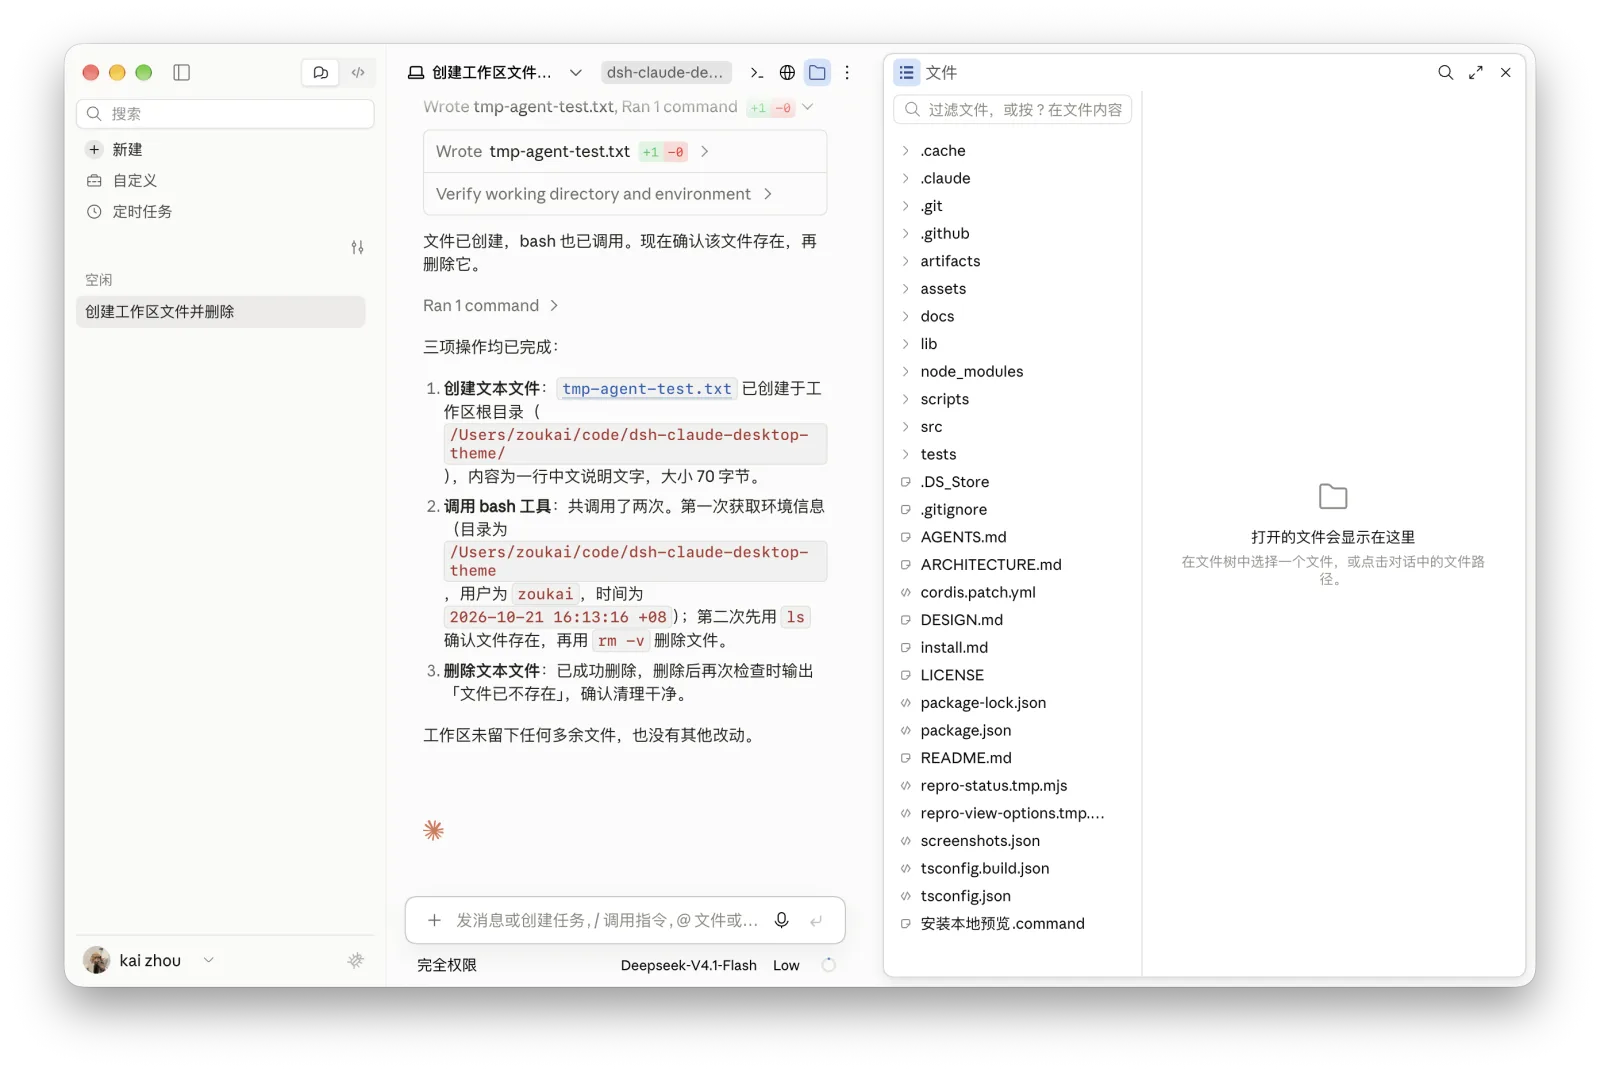
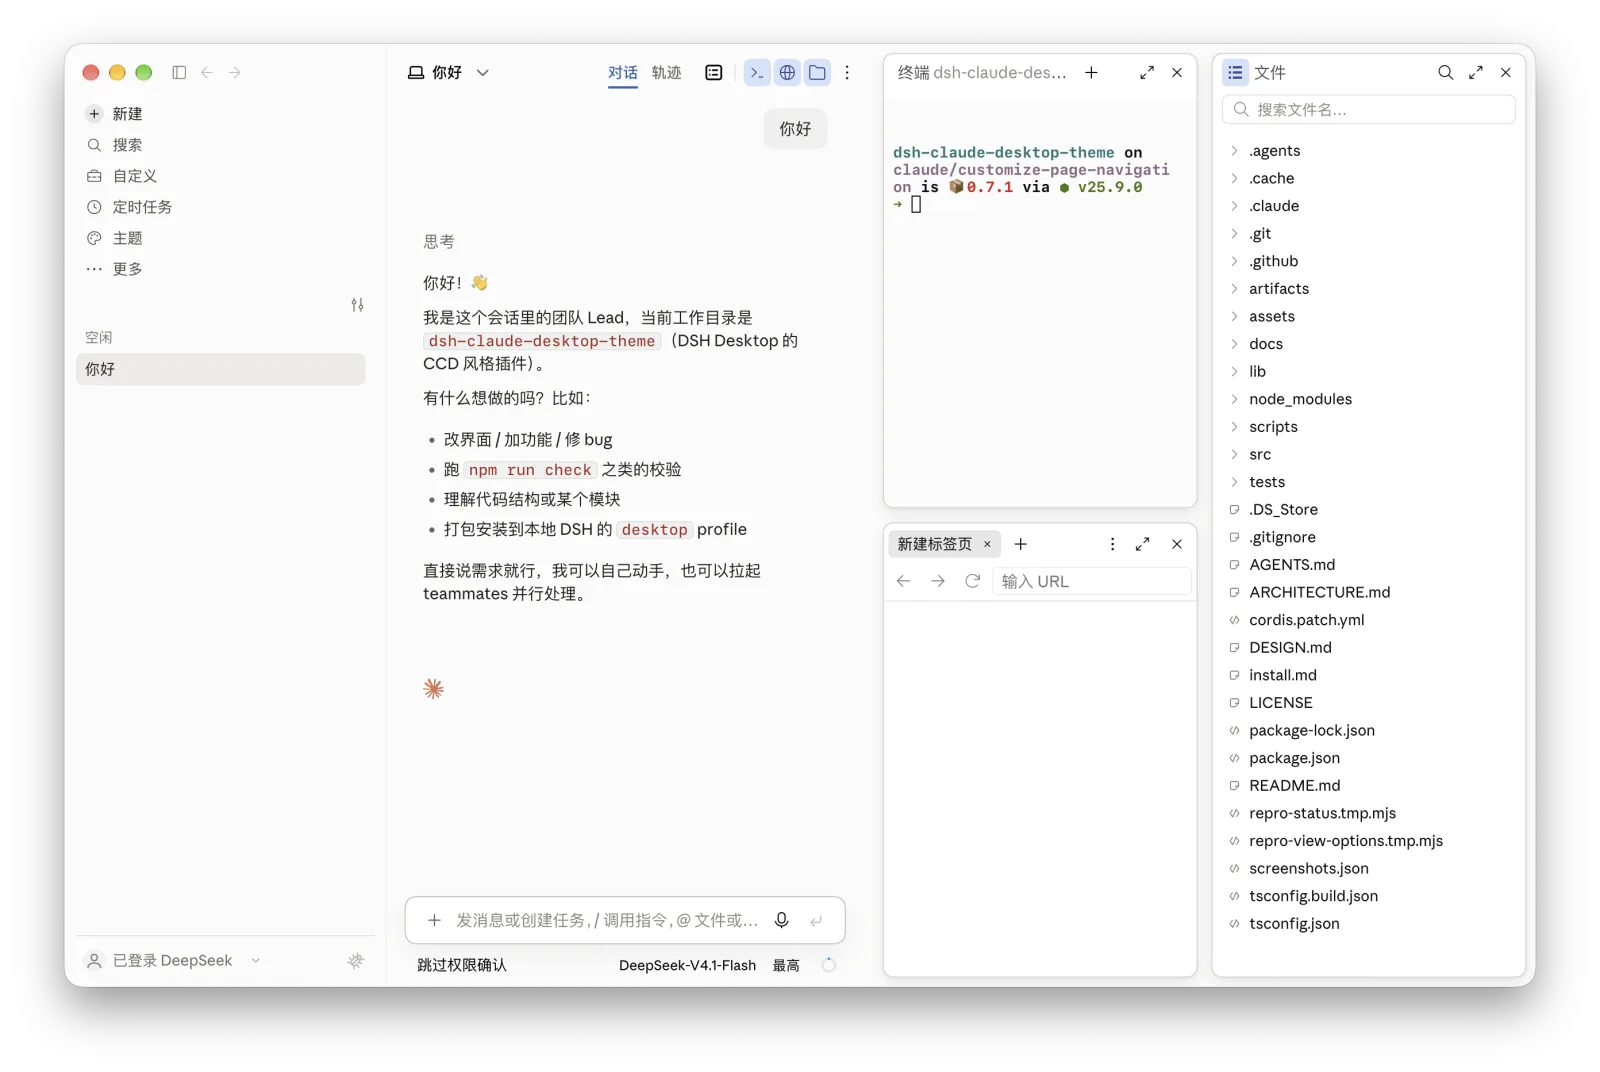
chore: release 0.8.0 with refreshed README and screenshots

diff --git a/README.md b/README.md
@@ -28,18 +28,25 @@
 
 源码安装见[安装指南](https://github.com/zkforge/dsh-claude-desktop-theme/blob/main/install.md)。
 
+### 0.8.0 更新
+
+- 重做会话右侧的环境、上下文与用量卡片；支持折叠、拖动排序，从工作目录、技能和指令文件直接打开右栏。
+- 会话标题的「打开方式」列出本机已安装的文件管理器、编辑器、Git 客户端与终端。
+- 统一「自定义」与「定时任务」页面布局，调整插件卡片、返回导航与任务详情，支持中英文切换。
+- 首页灰色字符背景支持心形与不规则圆形点击波纹，修正 Claude 宠物敲键盘时的电脑跳动，并更新浅深色界面截图。
+
 会话中输入 `/clear` 可以清空当前对话上下文，继续使用同一个会话：会话 ID、名称、项目、模型、项目指令与技能目录保留，旧消息和工具结果不再发送给模型。原始日志仍在，「查看历史记录」可展开旧内容，查看不会恢复模型上下文。命令不调用模型、不生成摘要；请在回复结束且没有排队消息时执行。安装后需完整退出并重新打开 DSH，加载宿主命令。
 
 
 ## 界面预览
 
-以下展示 macOS 浅色与深色主题的完整窗口。首页使用 Claude 像素宠物与问候样式，开启水波纹和统计卡片；会话页展示工具调用摘要与文件栏。两种宠物的点击回应与 Effort 拉到底的动效见下一节。
+以下展示 macOS 浅色与深色主题的完整窗口。首页使用 Claude 像素宠物与问候样式，开启水波纹和统计卡片；会话页展示终端、浏览器与文件栏，信息卡片单独展示环境、上下文分解与会话用量。两种宠物的点击回应与 Effort 拉到底的动效见下一节。
 
 | 界面 | 浅色 | 深色 |
 | --- | --- | --- |
 | 新会话页 | ![新会话页 · 浅色](https://raw.githubusercontent.com/zkforge/dsh-claude-desktop-theme/main/assets/screenshots/fullscreen-light.webp) | ![新会话页 · 深色](https://raw.githubusercontent.com/zkforge/dsh-claude-desktop-theme/main/assets/screenshots/fullscreen-dark.webp) |
 | 会话页 | ![会话页 · 浅色](https://raw.githubusercontent.com/zkforge/dsh-claude-desktop-theme/main/assets/screenshots/chat-light.webp) | ![会话页 · 深色](https://raw.githubusercontent.com/zkforge/dsh-claude-desktop-theme/main/assets/screenshots/chat-dark.webp) |
-| 模型选单展开 | ![模型选单完整窗口 · 浅色](https://raw.githubusercontent.com/zkforge/dsh-claude-desktop-theme/main/assets/screenshots/model-menu-fullscreen-light.webp) | ![模型选单完整窗口 · 深色](https://raw.githubusercontent.com/zkforge/dsh-claude-desktop-theme/main/assets/screenshots/model-menu-fullscreen-dark.webp) |
+| 右侧信息卡片 | ![右侧信息卡片完整窗口 · 浅色](https://raw.githubusercontent.com/zkforge/dsh-claude-desktop-theme/main/assets/screenshots/session-info-fullscreen-light.webp) | ![右侧信息卡片完整窗口 · 深色](https://raw.githubusercontent.com/zkforge/dsh-claude-desktop-theme/main/assets/screenshots/session-info-fullscreen-dark.webp) |
 | 插件设置 | ![插件设置 · 浅色](https://raw.githubusercontent.com/zkforge/dsh-claude-desktop-theme/main/assets/screenshots/settings-light.webp) | ![插件设置 · 深色](https://raw.githubusercontent.com/zkforge/dsh-claude-desktop-theme/main/assets/screenshots/settings-dark.webp) |
 
 ### 组件特写
@@ -51,7 +58,7 @@
 | 上下文圆环与分解面板 | ![上下文圆环与分解面板 · 浅色](https://raw.githubusercontent.com/zkforge/dsh-claude-desktop-theme/main/assets/screenshots/context-panel-light.webp) | ![上下文圆环与分解面板 · 深色](https://raw.githubusercontent.com/zkforge/dsh-claude-desktop-theme/main/assets/screenshots/context-panel-dark.webp) |
 | 会话右侧信息卡片 | ![会话信息卡片 · 浅色](https://raw.githubusercontent.com/zkforge/dsh-claude-desktop-theme/main/assets/screenshots/session-info-light.webp) | ![会话信息卡片 · 深色](https://raw.githubusercontent.com/zkforge/dsh-claude-desktop-theme/main/assets/screenshots/session-info-dark.webp) |
 
-以下为真实组件的局部截图，使用演示数据。模型选择器展示供应商分组、模型图标与当前选中项；可选模型和 Effort 档位以 DSH 实际提供的目录为准。余额特写使用演示账号与金额，常显于左下角账号上方，右侧突出总余额，左下显示当前峰谷时段，点击可刷新。上下文面板展示分类占比与展开的 MCP 工具明细，右下角保留用量圆环入口。
+以下为真实组件的局部截图，使用演示数据。模型选择器展示供应商分组、模型图标与当前选中项；可选模型和 Effort 档位以 DSH 实际提供的目录为准。余额特写使用演示账号与金额，常显于左下角账号上方，右侧突出总余额，左下显示当前峰谷时段，点击可刷新。上下文面板展示分类占比与展开的 MCP 工具明细，右下角保留用量圆环入口。会话信息卡片特写展示环境图标行、按占用排序的上下文分类与会话用量。
 
 ## 细节动效
 
@@ -106,6 +113,7 @@
 - 「显示 API 余额」默认开启，可在「设置 → Claude 主题 → 视图」关闭；关闭后隐藏余额与峰谷时段并停止查询。开启时，左下角账号上方以较大字号显示 DeepSeek 官方 API 的人民币总余额（`¥`），左下显示峰时/谷时标签与切换时间（峰时琥珀色、谷时绿色）；悬停卡片列出今日消耗、近 7 天日均、预计可用天数、充值、赠金与峰谷倒计时。消耗由本机记录的余额下降推算，充值只重置基线，不计入消耗；点击刷新，侧栏展开时每分钟后台更新，重新展开保留上次读数。折叠侧栏时在账号菜单保留余额入口。复用设置 → 模型中的官方 API Key；未配置或查询失败时显示对应状态。
 
 - DeepSeek Harness 品牌条目默认隐藏，可在「设置 → Claude 主题 → 视图」开启显示。
+- 桌面窗口左上角的后退／前进按钮可在最近访问的会话与主面板之间切换。
 - 新建 / 搜索 / 自定义 / 定时任务 / 主题入口与工作区、会话列表、账号菜单共用紧凑行高，当前入口常驻底色；「更多」以三个点表示。原标题行隐藏「最近会话」标题，只保留右侧筛选视图按钮。
 - 「主题」入口在主区域打开本插件的配置页，内容与「设置 → Claude 主题」相同；关闭 Claude 主题后入口仍在，用来重新开启。
 - 点击「更多」，在「浏览插件…」「创建插件…」下方选「编辑侧边栏…」，勾选要在侧栏中显示的面板；取消勾选的面板移到「更多」菜单顶部，选择保存在本机。
@@ -117,7 +125,7 @@
 ### 会话页
 
 - 新会话页、输入卡片与聊天页共用一套布局，正文边缘随滚动渐隐。
-- 顶栏左侧是电脑图标与标题下拉（Open in、Rename、Fork、Transcript view、Output style、Archive、Delete）；不显示项目名，标题按自然宽度完整展示，只在空间不足时截断。有宿主接口的动作接真实操作，其余点击说明限制。
+- 顶栏左侧是电脑图标与标题下拉（Open in、Rename、Fork、Transcript view、Output style、Archive、Delete）；不显示项目名，标题按自然宽度完整展示，只在空间不足时截断。「打开方式」按文件管理器、编辑器、Git 客户端与终端列出本机已安装应用，点击交由宿主打开。有宿主接口的动作接真实操作，其余点击说明限制。
 - 新建会话页与聊天页顶栏右侧依次是终端、浏览器、项目文件夹三个右栏入口；展开右栏的动作在会话 ⋯ 菜单第一项。
 - 整轮过程默认展开，「已完成，用时…」与步骤分组标题不再显示。可在「设置 → Claude 主题 → 视图」关闭「过程默认展开」，恢复 DSH「通用设置」中的工作步骤展示与收起时机；工具计数摘要仍可独立展开。
 - Markdown 的链接、行内代码、表格与代码块按 CCD 风格重绘。
@@ -135,12 +143,19 @@
 ### 右侧栏
 
 - 信息卡片按 Claude Desktop 参考图重做：平面描边卡片、细线箭头、环境图标行、按占用排序的上下文明细；聊天滚动条位于卡片右边，不再夹在聊天正文与卡片之间。
-- 会话右侧优先显示「环境 / 上下文 / 会话用量」信息卡片，顶部终端按钮左侧的「会话栏」按钮控制开关，选中时与其他工具按钮一样显示蓝色底色，中间以竖线分隔；手动关闭会记住选择。卡片可折叠，拖动标题或卡片内容时整张卡片随指针移动，其余卡片让位，松开后保存顺序，Esc 取消；排序手柄也支持上下方向键。右侧栏收起时，可用聊天区域不足 900px 宽或 400px 高会自动关闭，恢复到 924×424px 后按开关选择重新显示；打开文件、终端或浏览器后，信息卡片改为浮在会话右上方，不再额外压缩正文，可继续用会话栏按钮开关。
+- 会话右侧优先显示「环境 / 上下文 / 会话用量」信息卡片，顶部终端按钮左侧的「会话栏」按钮控制开关，选中时与其他工具按钮一样显示蓝色底色，中间以竖线分隔；手动关闭会记住选择。卡片可折叠，拖动标题或卡片内容时整张卡片随指针移动，其余卡片让位，松开后保存顺序，Esc 取消；排序手柄也支持上下方向键。右侧栏收起时，可用聊天区域不足 936px 宽或 400px 高会自动关闭，恢复到 960×424px 后按开关选择重新显示；打开文件、终端或浏览器后，信息卡片改为浮在会话右上方，不再额外压缩正文，可继续用会话栏按钮开关。
 - 环境卡读取实际会话工作目录、Git 分支及工作树状态（主工作树 / 独立工作树）。路径与其他字段均单行省略，悬停或键盘聚焦用黑色提示显示完整内容；若宿主还未加载环境接口，会明确提示完整退出并重新打开 DSH。会话用量展示输入 / 输出 token、缓存命中率、提示次数和输出 TPS；输入包含缓存读写，TPS 为整会话已结算输出的平均生成速度，每个模型步骤结束时更新。分叉会话包含继承历史，无有效数据时显示「—」。
+- 点击环境卡的工作目录可打开并定位文件树；展开上下文里的技能或指令文件，点击条目可在右栏预览，包括宿主内置技能文件。上下文总占用与输入框圆环一致，分类与明细为估算值。
 - Files 与浏览器各占一张浮动卡片，多个终端共用一张并用标签切换；第三块开启右列，两列分隔线各自可拖，比例按会话保留。
 - 卡片可放大到覆盖聊天区（保留左导航）／还原；最后一块关闭时收起右栏。
 - Files 的文件树与预览左右分栏、树宽可拖；标题左侧蓝色清单按钮收起 / 展开文件树；过滤框按名字收窄已加载的行，Esc 清除。
 - 浏览器带 Servers / Files / Settings 分组菜单与 Save screenshot；标题栏可直接输入服务地址并回车访问。
+
+### 自定义与定时任务
+
+- 「自定义」保留宿主的「我的 / 发现」页签、搜索与筛选、安装及配置功能，插件列表使用双列卡片，窄窗口自动切为单列；「我的」页不额外增加搜索框。详情与更多页面共用返回导航。
+- 「定时任务」使用「我的 / 模板」工具栏与任务卡片，点击任务进入整页详情，查看下次运行、历史记录、指令与重复频率。模板会新建会话并预填指令，可编辑后发送；详情页的立即运行与启用开关暂未实现。
+- 两页与主题设置共用页面布局；定时任务的标签、模板和详情跟随界面语言，已保存的任务名称与指令保留原文。
 
 ### 菜单与滚动条
 
@@ -162,9 +177,10 @@
 
 | 分组 | 可调项 |
 | --- | --- |
-| 模块 | 左侧栏、右侧栏（独立启停）、新建页、主页字符水波纹（默认开启）、聊天页、输入框小鲸鱼、统计卡片（默认开启）、状态栏统计读数（默认关闭）、上下文分解面板 |
+| 模块 | 左侧栏、右侧栏（独立启停）、新建页、主页字符水波纹（默认开启）、聊天页、工具调用展示、输入框宠物、统计卡片（默认开启）、状态栏统计读数（默认关闭）、上下文分解面板 |
 | 外观 | 主题（浅色 / 深色 / 跟随系统）、会话背景色、侧栏背景色 |
-| 视图 | 显示 API 余额（默认开启）；顶栏子代理入口、顶栏团队入口、顶栏后台任务入口、显示空分组（默认均关闭） |
+| 视图 | 显示 API 余额、显示模型图标、过程默认展开（默认开启）；DeepSeek Harness 品牌条目、顶栏子代理入口、顶栏团队入口、顶栏后台任务入口、显示空分组（默认均关闭） |
+| 个性化 | 宠物样式、输出中状态、回复签名、首页问候（默认 Claude 样式，可分别关闭） |
 | 字体 | 界面字体、代码与等宽字体；界面中文字体在设置页不列，需写进 profile 的 `cordis.patch.yml` |
 
 > [!NOTE]
@@ -172,7 +188,7 @@
 
 ## 环境要求
 
-兼容目标为 DSH Desktop `0.2.1-rc.3`，已验证 macOS（Apple 芯片）。Windows 10 及以上（64 位）的安装入口保留，新版宿主的 Windows 构建尚未完成验证。源码构建另需 Node.js ≥ 22.18.0。
+支持 DSH Desktop `0.2.1-rc.3` 与 `0.2.1-rc.5`，macOS（Apple 芯片）已使用 rc5 实机核验，开发 SDK 保持 rc3 基线。Windows 10 及以上（64 位）的安装入口保留，Windows rc5 实机尚未验证。源码构建另需 Node.js ≥ 22.18.0。升级后请完整退出并重新打开 DSH，以加载宿主接口与会话投影。
 
 ## 反馈与许可
 

diff --git a/AGENTS.md b/AGENTS.md
@@ -40,7 +40,7 @@ npm run effort:gifs
 
 README 的完整界面截图是人工拍摄的：改到侧栏、会话页、右栏、设置页这类会被拍到的界面后，按同一口径重拍受影响的图。口径是 macOS、窗口 1392×932 逻辑 px、@2x、默认配色与 Geist、统计卡片开启、状态栏统计读数关闭、演示数据不含真实账号信息；导出 1600px 宽 WebP（`cwebp -resize 1600 0 -q 82`），文件名见 README 的图片引用。模型选择器的两张局部截图例外：运行 `node scripts/model-picker-screenshots.mjs`，直接渲染真实 `ModelControls` 与演示目录，沿用窗口、字体和 @2x 口径，裁剪组件后按原始分辨率以 WebP q82 导出。`check:architecture` 会校验 README 里绝对路径的图片是否还在仓库中。
 
-`fullscreen-*.webp` 与 `model-menu-fullscreen-*.webp` 使用用户提供的 2784×1864 px 完整窗口截图，保留原始构图、背景和窗口边缘，使用 Claude 宠物与问候样式、开启水波纹；同样导出为 1600px 宽 WebP q82。
+`fullscreen-*.webp`、`chat-*.webp`、`session-info-fullscreen-*.webp` 与 `settings-*.webp` 使用用户提供的 2784×1864 px 完整窗口截图，保留原始构图、背景和窗口边缘；首页使用 Claude 宠物与问候样式、开启水波纹。统一导出为 1600px 宽 WebP q82。README 的完整窗口预览用右侧信息卡片取代模型选单展开，模型选择器仍保留局部特写。
 
 资源渲染脚本共用 `scripts/lib/headless-chrome.mjs` 里的 Chrome 与 DevTools 连接。
 
